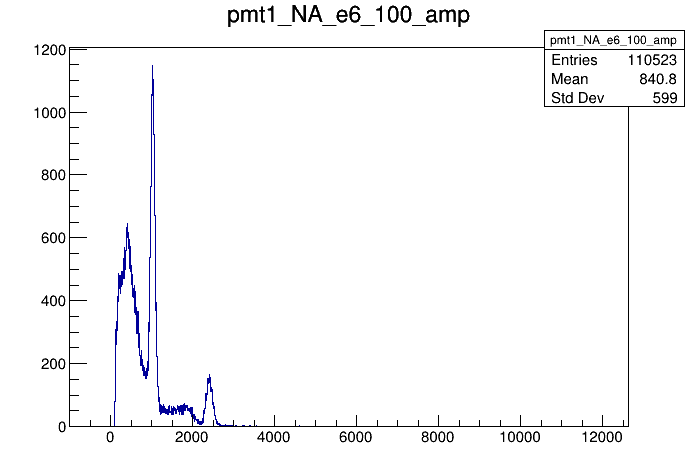
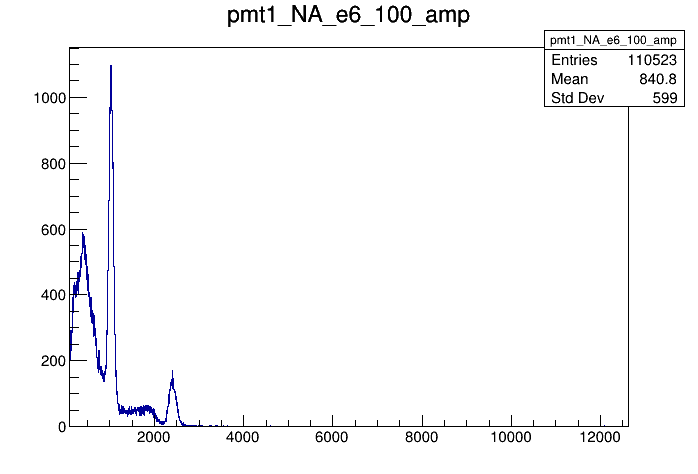
cov_camp

diff --git a/scatter.cpp b/scatter.cpp
@@ -59,7 +59,7 @@ tuple<vector<float>,vector<float>, vector<long unsigned int>>  charge_amp(string
         u=0;
         for (int j=0; j<100; j++){
             h += v[i][j] / 100;
-            if (v[i][j]<14600 && u==0){
+            if (v[i][j]<14500 && u==0){
                 //cout << "valore piccolo: "<< i <<endl;
                 idx_strange.push_back(i);
                 u++;
@@ -78,7 +78,7 @@ tuple<vector<float>,vector<float>, vector<long unsigned int>>  charge_amp(string
             vector <float> t(1030);
             iota(begin(t), end(t), 0);
             TCanvas *c_wave = new TCanvas(&(name + "_wave")[0], &(name + "_wave")[0]);
-            TGraph* gr = new TGraph(t.size(), &t[0], &v[idx_strange[idx_strange.size()-1]][0]);
+            TGraph* gr = new TGraph(t.size(), &t[0], &v[0][0]);
             gr->SetNameTitle(&(name + "_wave")[0], &(name + "_wave")[0]);
             gr->SetMarkerStyle(21);
             gr->Draw("AP");
@@ -94,12 +94,12 @@ tuple<vector<float>,vector<float>, vector<long unsigned int>>  charge_amp(string
 
 void scatter(){
     map <string, string> pair_names ={
-        {"pmt1_NA_e6_ext_run1","pmt2_NA_e6_ext_run1"},
-        {"pmt1_NA_e6_ext_run2","pmt2_NA_e6_ext_run2"},
-        {"pmt1_NA_e6_ext_run3", "pmt3_NA_e6_ext_run3"},
-        {"pmt1_NA_e6_100_or_run1", "pmt2_NA_e6_100_or_run1"},
-        {"pmt1_NA_e6_700_or_run2", "pmt2_NA_e6_700_or_run2"},
-        {"pmt1_NA_e6_700_or_run3", "pmt2_NA_e6_700_or_run3"}
+        //{"pmt1_NA_e6_ext_run1","pmt2_NA_e6_ext_run1"},
+        {"pmt1_NA_e6_ext_run2","pmt2_NA_e6_ext_run2"}
+        //{"pmt1_NA_e6_ext_run3", "pmt3_NA_e6_ext_run3"},
+        //{"pmt1_NA_e6_100_or_run1", "pmt2_NA_e6_100_or_run1"},
+        //{"pmt1_NA_e6_700_or_run2", "pmt2_NA_e6_700_or_run2"},
+        //{"pmt1_NA_e6_700_or_run3", "pmt2_NA_e6_700_or_run3"}
     };
 
     for (const auto &pair_name : pair_names){  
@@ -116,19 +116,19 @@ void scatter(){
         tie(charge_a, amp_a, idx_strange_a) = charge_amp(name_a);
         tie(charge_b, amp_b, idx_strange_b) = charge_amp(name_b); 
         
-        cout <<"tot = " <<charge_a.size() <<endl;
+        cout <<"tot charge= " <<charge_a.size() <<endl;
         int q=0;
         for (long unsigned int i=0; i< charge_a.size(); i++){
-            if ((find(idx_strange_a.begin(), idx_strange_a.end(), i) != idx_strange_a.end()) || (find(idx_strange_b.begin(), idx_strange_b.end(), i) != idx_strange_b.end())){
-            //if(charge_a[i]<-10000 || charge_b[i]<-10000){
-                cout << charge_a[i] << "   " << charge_b[i] <<endl;
+            //if ((find(idx_strange_a.begin(), idx_strange_a.end(), i) == idx_strange_a.end()) || (find(idx_strange_b.begin(), idx_strange_b.end(), i) == idx_strange_b.end())){
+            if(charge_a[i]<-10000 || charge_b[i]<-10000){
+                //cout << charge_a[i] << "   " << charge_b[i] <<endl;
                 charge_a.erase(charge_a.begin()+i);
                 charge_b.erase(charge_b.begin()+i);    
                 q++;            
             }
         }
         cout << "erased = " << q <<endl;
-        cout << charge_a.size() << "   " << charge_b.size() <<endl;
+        cout << "remaining charge =" << charge_a.size() << "   " << charge_b.size() <<endl;
         
 
 
@@ -144,8 +144,8 @@ void scatter(){
 
             } 
         }
-        float picco_a_med=getAverage(picco_a);
-        float picco_b_med=getAverage(picco_b);
+        float picco_a_med=accumulate(picco_a.begin(), picco_a.begin(), 0)/picco_a.size();
+        float picco_b_med=accumulate(picco_b.begin(), picco_b.begin(), 0)/picco_b.size();
         float cov_camp=0;
 
         for(int n=0; n<picco_a.size() ; n++){
@@ -153,8 +153,6 @@ void scatter(){
         }
 
         cout<<cov_camp<<endl;
-
-
 
 
         TCanvas *c_scatter_charge = new TCanvas(&("scatter_" + name + "_charge")[0], &("scatter_" + name + "_charge")[0]);

diff --git a/main_func.cpp b/main_func.cpp
@@ -79,8 +79,8 @@ vector <TH1F*> make_histo(string name){
         charge_min = (charge[i]<charge_min) ? charge[i] : charge_min;
         amp_min = (amp[i]<amp_min) ? amp[i] : amp_min;      
     }
-    TH1F *histo_charge=  new TH1F(&(name + "_charge")[0],&(name + "_charge")[0], 2600, -1000, static_cast<int>(charge_max));
-    TH1F *histo_amp=  new TH1F(&(name + "_amp")[0],&(name + "_amp")[0], 2800, -1000, static_cast<int>(amp_max));
+    TH1F *histo_charge=  new TH1F(&(name + "_charge")[0],&(name + "_charge")[0], 2600, static_cast<int>(charge_min), static_cast<int>(charge_max));
+    TH1F *histo_amp=  new TH1F(&(name + "_amp")[0],&(name + "_amp")[0], 2800, static_cast<int>(amp_min), static_cast<int>(amp_max));
     for (long unsigned int i=0; i< charge.size(); i++){
         if (find(idx_strange.begin(), idx_strange.end(), i) == idx_strange.end()){
             histo_charge->Fill(charge[i]);
